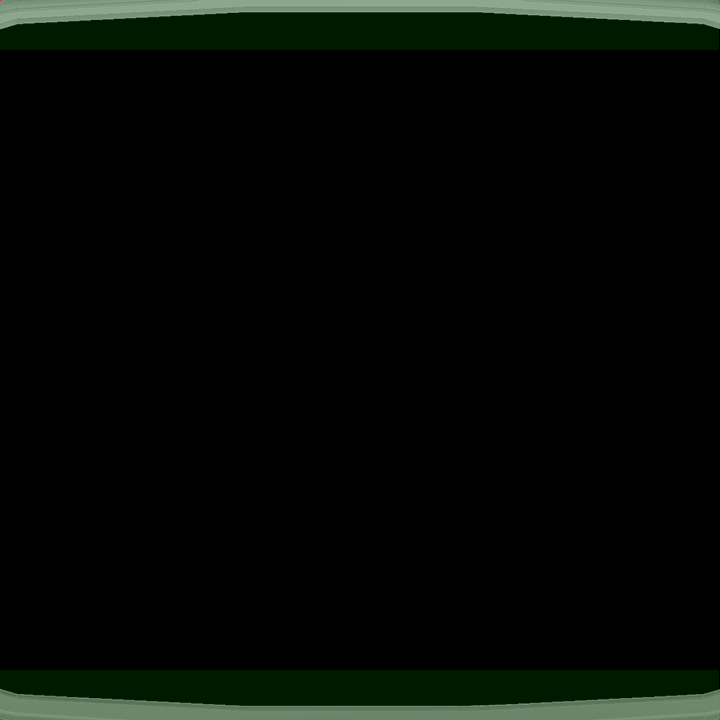
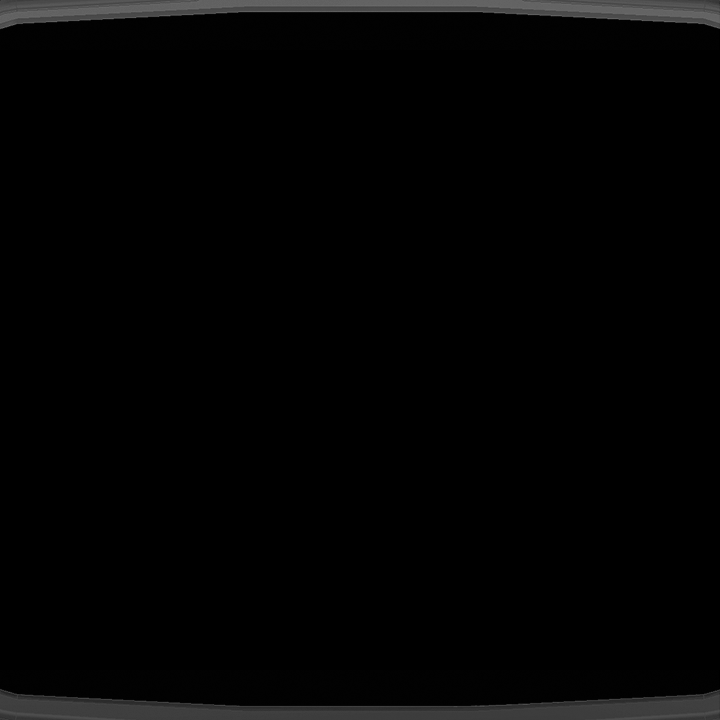
Trying to figure out why screen images are stacking

Changed region(s): [[0.0, 0.9167, 1.0, 1.0], [0.0, 0.0, 1.0, 0.0917]]

diff --git a/game/core.py b/game/core.py
@@ -10,6 +10,7 @@ class Engine(object):
     def __init__(self, title, width, height, *args, **kwargs):
         super(Engine, self).__init__(*args, **kwargs)
         pygame.init()
+
         if config.FULLSCREEN == True:
             self.window = pygame.display.set_mode((width, height),pygame.FULLSCREEN)
         else:
@@ -19,8 +20,8 @@ class Engine(object):
         pygame.mouse.set_visible(True)
         
         self.groups = []
-        self.root_persistent = EntityGroup()
-        self.background = pygame.surface.Surface(self.screen.get_size()).convert()
+        self.root_children = EntityGroup()
+        self.background = pygame.surface.Surface(self.screen.get_size())
         self.background.fill((0, 0, 0))
 
         self.rescale = False
@@ -33,9 +34,9 @@ class Engine(object):
         else:
             interval = time.time() - self.last_render_time
             self.last_render_time = time.time()
-        self.root_persistent.clear(self.screen, self.background)
-        self.root_persistent.render(interval)
-        self.root_persistent.draw(self.screen)
+        self.root_children.clear(self.screen, self.background)
+        self.root_children.render(interval)
+        self.root_children.draw(self.screen)
         for group in self.groups:
             group.render(interval)
             group.draw(self.screen)
@@ -43,7 +44,7 @@ class Engine(object):
         return interval
 
     def update(self):
-        self.root_persistent.update()
+        self.root_children.update()
         for group in self.groups:
             group.update()
 
@@ -75,7 +76,7 @@ class Entity(pygame.sprite.DirtySprite):
         self.groups = pygame.sprite.LayeredDirty()
         self.layer = layer
         self.dirty = 2
-        self.blendmode = pygame.BLEND_RGBA_MAX 
+        self.blendmode = pygame.BLEND_RGBA_MAX
 
     def render(self, interval=0, *args, **kwargs):
         pass

diff --git a/pypboy/core.py b/pypboy/core.py
@@ -24,19 +24,19 @@ class Pypboy(game.core.Engine):
             
         #Initialize modules
         super(Pypboy, self).__init__(*args, **kwargs)
-        self.init_persistent()
+        self.init_children()
         self.init_modules()
         
         self.gpio_actions = {}
         # if config.GPIO_AVAILABLE:
             # self.init_gpio_controls()
 
-    def init_persistent(self):
-        self.background = pygame.image.load('images/background.png').convert()
+    def init_children(self):
+        self.background = pygame.image.load('images/background.png')
         gradient = [(0, 4, 0, 0), (0, 6, 0, 0), (0, 12, 0, 0), (0, 18, 0, 0), (0, 24, 0, 0), (0, 18, 0, 0), (0, 12, 0, 0), (0, 6, 0, 0), (0, 4, 0, 0)]
         scanlines = pypboy.ui.Scanlines()
         #scanlines = pypboy.ui.Scanlines(720, 720, 6, 16, gradient + [(0, 0, 0, 0) for x in range(720)])
-        self.root_persistent.add(scanlines)
+        self.root_children.add(scanlines)
        
 
     def init_modules(self):

diff --git a/pypboy/__init__.py b/pypboy/__init__.py
@@ -41,7 +41,6 @@ class BaseModule(game.EntityGroup):
         # self.topmenu.position = (config.top_menu_x, config.top_menu_y)
         # self.add(self.topmenu)
 
-
         self.submenu = pypboy.ui.SubMenu()
         self.submenu.menu = []
         for mod in self.submodules:
@@ -66,7 +65,8 @@ class BaseModule(game.EntityGroup):
             self.active.move(x, y)
 
     def switch_submodule(self, module):
-        print("Changing submodules")
+        pygame.display.flip()
+        print("Changing to sub-module", module)
         if hasattr(self, 'active') and self.active:
             self.active.handle_action("pause")
             self.remove(self.active)

diff --git a/pypboy/modules/stats/status.py b/pypboy/modules/stats/status.py
@@ -36,8 +36,7 @@ class Health(game.Entity):
     def __init__(self):
         super(Health, self).__init__()
         self.image = pygame.Surface((config.WIDTH, config.HEIGHT - config.header_height - config.footer_height))
-        #self.image = pygame.image.load('images/stats/ref_stats.png').convert() #load for alignment reference
-
+        self.image.fill((0, 0, 0))
         
         # Top Text
         config.FreeRobotoB[33].render_to(self.image, (104, 0), "STAT", config.bright)

diff --git a/pypboy/modules/stats/special.py b/pypboy/modules/stats/special.py
@@ -32,8 +32,8 @@ class Module(pypboy.SubModule):
     def changeStat(self, imageUrl):
         self.stat.image = pygame.image.load(imageUrl).convert()
         self.stat.rect = self.stat.image.get_rect()
-        self.stat.rect[0] = 100
-        self.stat.rect[1] = 0
+        self.stat.rect[0] = 150
+        self.stat.rect[1] = 150
         self.stat.image = self.stat.image.convert()
 
     def show_str(self):

diff --git a/pypboy/ui.py b/pypboy/ui.py
@@ -128,8 +128,6 @@ class Menu(game.Entity):
                 #pygame.draw.rect(self.image, (95, 255, 177), selected_rect, 2)
             self.image.blit(text, (config.menu_x + 5, offset))
             offset += text.get_size()[1] + 6
-
-
    
 class Scanlines(game.core.Entity):
 
